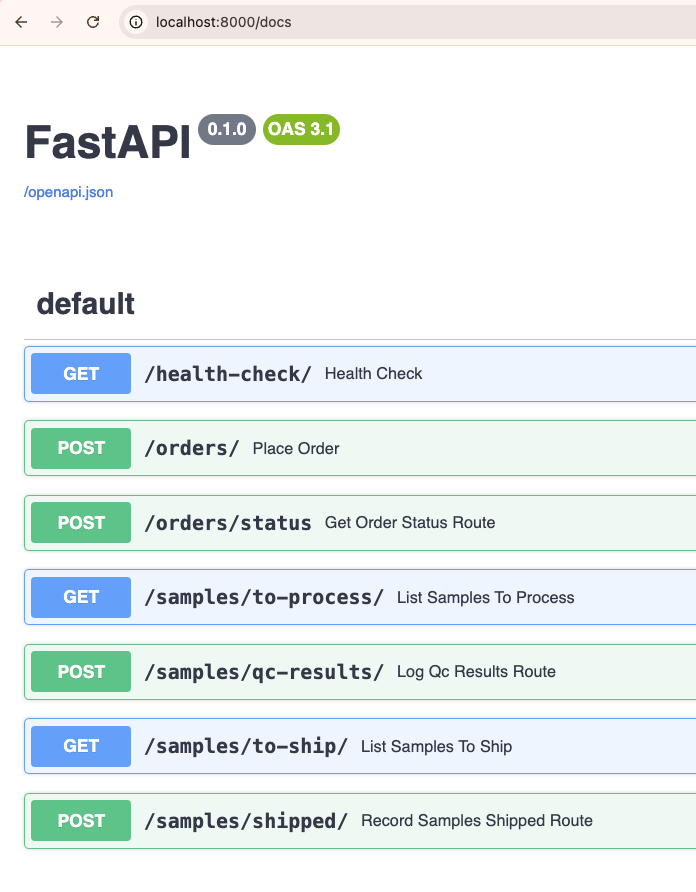
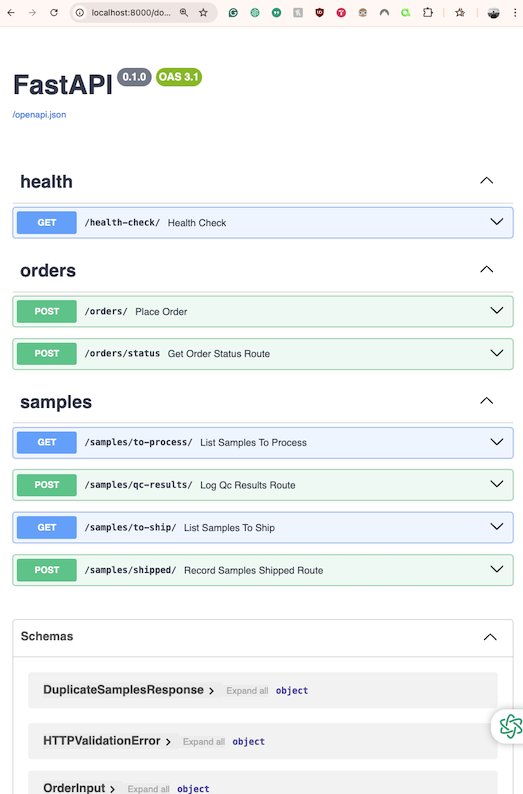
infra aws

diff --git a/tracking_system/app/schemas/pydantic_models.py b/tracking_system/app/schemas/pydantic_models.py
@@ -1,5 +1,4 @@
 from pydantic import BaseModel
-from typing import List
 from uuid import UUID
 from app.models import SampleStatus, QCResult
 
@@ -10,7 +9,7 @@ class SampleInput(BaseModel):
 
 
 class OrderInput(BaseModel):
-    order: List[SampleInput]
+    order: list[SampleInput]
 
 
 class OrderResponse(BaseModel):
@@ -18,7 +17,7 @@ class OrderResponse(BaseModel):
 
 
 class DuplicateSamplesResponse(BaseModel):
-    repeat_sample_uuids: List[UUID]
+    repeat_sample_uuids: list[UUID]
 
 
 class SampleToMake(BaseModel):
@@ -27,7 +26,7 @@ class SampleToMake(BaseModel):
 
 
 class SamplesToMakeResponse(BaseModel):
-    samples_to_make: List[SampleToMake]
+    samples_to_make: list[SampleToMake]
 
 
 class QCResultInput(BaseModel):
@@ -40,7 +39,7 @@ class QCResultInput(BaseModel):
 
 
 class QCResultsInput(BaseModel):
-    samples_made: List[QCResultInput]
+    samples_made: list[QCResultInput]
 
 
 class SampleToShip(BaseModel):
@@ -50,11 +49,11 @@ class SampleToShip(BaseModel):
 
 
 class SamplesToShipResponse(BaseModel):
-    samples_to_ship: List[SampleToShip]
+    samples_to_ship: list[SampleToShip]
 
 
 class SamplesShippedInput(BaseModel):
-    samples_shipped: List[UUID]
+    samples_shipped: list[UUID]
 
 
 class SampleStatusResponse(BaseModel):
@@ -63,7 +62,7 @@ class SampleStatusResponse(BaseModel):
 
 
 class OrderStatusResponse(BaseModel):
-    sample_statuses: List[SampleStatusResponse]
+    sample_statuses: list[SampleStatusResponse]
 
 
 class OrderStatusRequest(BaseModel):

diff --git a/tracking_system/migrations/env.py b/tracking_system/migrations/env.py
@@ -1,4 +1,5 @@
 import asyncio
+import os
 from logging.config import fileConfig
 
 from sqlalchemy import pool
@@ -8,7 +9,7 @@ from sqlmodel import SQLModel
 
 from alembic import context
 
-from app.schemas import Order, Sample, QCResults, Shipment
+from app.models import Order, Sample, QCResults, Shipment
 
 # this is the Alembic Config object, which provides
 # access to the values within the .ini file in use.
@@ -24,6 +25,14 @@ if config.config_file_name is not None:
 # from myapp import mymodel
 # target_metadata = mymodel.Base.metadata
 target_metadata = SQLModel.metadata
+
+# Get the DATABASE_URL from environment variable
+database_url = os.environ.get("DATABASE_URL")
+if database_url is None:
+    raise ValueError("DATABASE_URL environment variable is not set")
+
+# Override sqlalchemy.url with the value from DATABASE_URL
+config.set_main_option("sqlalchemy.url", database_url)
 
 # other values from the config, defined by the needs of env.py,
 # can be acquired:

diff --git a/tracking_system/app/routes/orders.py b/tracking_system/app/routes/orders.py
@@ -1,6 +1,5 @@
 from fastapi import APIRouter, Depends, HTTPException
 from sqlmodel.ext.asyncio.session import AsyncSession
-from typing import Union
 
 from app.db import get_session
 from app.schemas.pydantic_models import OrderInput, OrderResponse, DuplicateSamplesResponse, OrderStatusRequest, OrderStatusResponse
@@ -8,7 +7,7 @@ from app.services.order_service import create_order, get_order_status
 
 router = APIRouter()
 
-@router.post("/orders/", response_model=Union[OrderResponse, DuplicateSamplesResponse])
+@router.post("/orders/", response_model=OrderResponse | DuplicateSamplesResponse)
 async def place_order(order_input: OrderInput, session: AsyncSession = Depends(get_session)):
     return await create_order(order_input, session)
 

diff --git a/tracking_system/migrations/versions/2024_10_10_1602-73be563f9f8d_init_db.py b/tracking_system/migrations/versions/2024_10_10_1602-73be563f9f8d_init_db.py
@@ -1,22 +1,20 @@
-"""init
+"""init db
 
-Revision ID: 636211eb4655
+Revision ID: 73be563f9f8d
 Revises: 
-Create Date: 2024-09-22 01:14:50.403145
+Create Date: 2024-10-10 16:02:56.425905
 
 """
-from typing import Sequence, Union
-
 from alembic import op
 import sqlalchemy as sa
 import sqlmodel
 
 
 # revision identifiers, used by Alembic.
-revision: str = '636211eb4655'
-down_revision: Union[str, None] = None
-branch_labels: Union[str, Sequence[str], None] = None
-depends_on: Union[str, Sequence[str], None] = None
+revision: str = '73be563f9f8d'
+down_revision: str | None = None
+branch_labels: str | list[str] | None = None
+depends_on: str | list[str] | None = None
 
 
 def upgrade() -> None:

diff --git a/tracking_system/app/main.py b/tracking_system/app/main.py
@@ -4,15 +4,17 @@ from contextlib import asynccontextmanager
 from app.db import init_db
 from app.routes import health, orders, samples
 
+
 @asynccontextmanager
 async def lifespan(app: FastAPI):
     print("Starting up...")
-    await init_db()
+    # await init_db()
     yield
     print("Shutting down...")
 
+
 app = FastAPI(lifespan=lifespan)
 
-app.include_router(health.router)
-app.include_router(orders.router)
-app.include_router(samples.router)
+app.include_router(health.router, tags=["health"])
+app.include_router(orders.router, tags=["orders"])
+app.include_router(samples.router, tags=["samples"])
